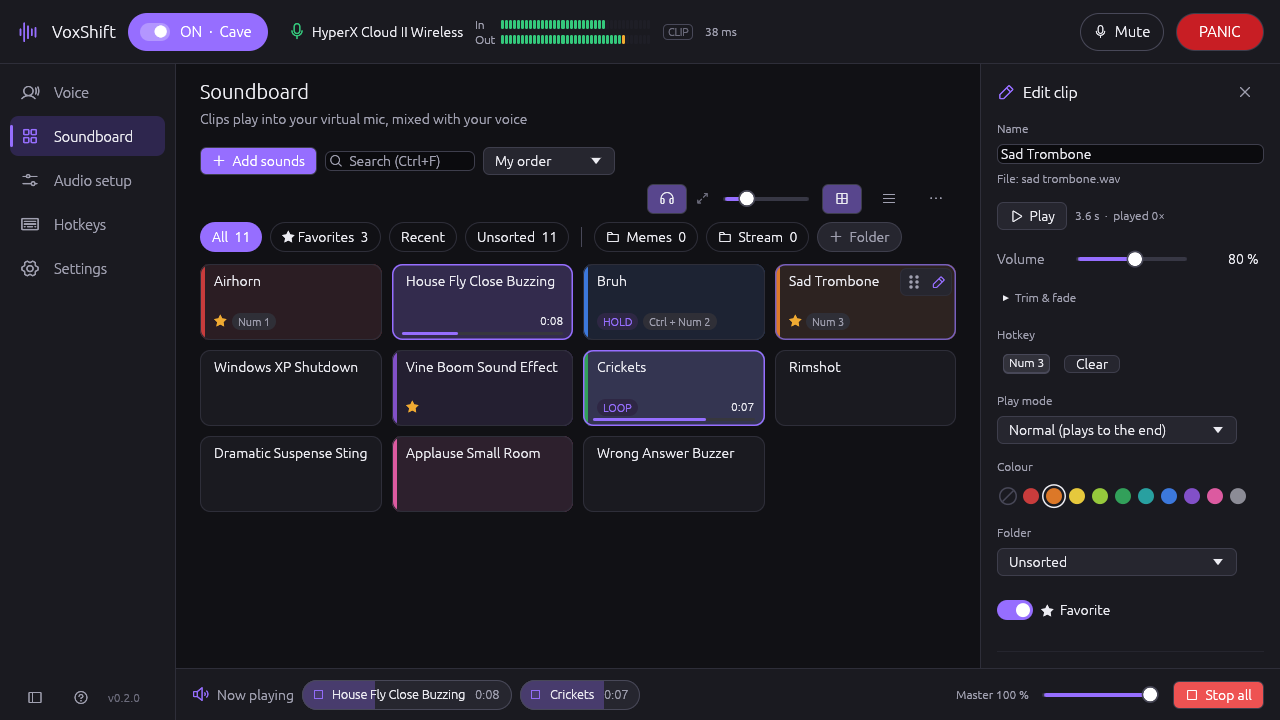
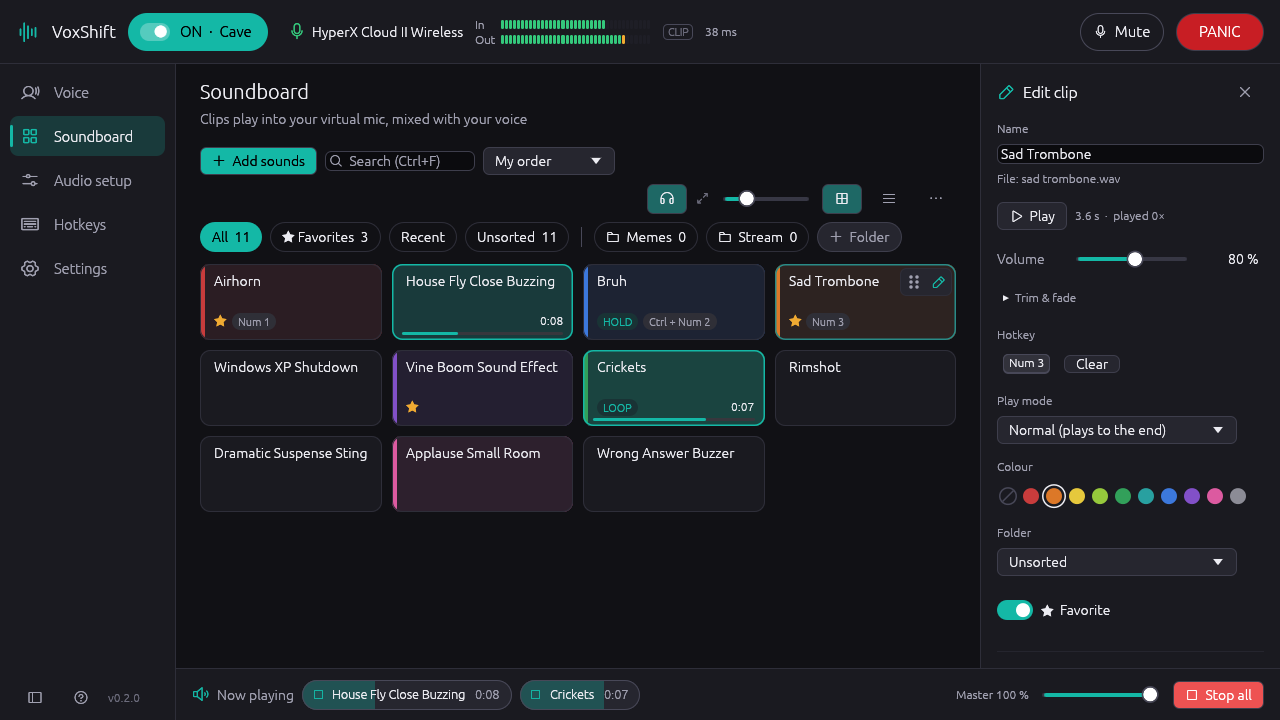
README: accent colour setting, and the screenshots in teal

diff --git a/README.md b/README.md
@@ -68,7 +68,8 @@ nothing is uploaded anywhere.
 **Convenient**
 - Global hotkeys that work while a game has focus (the game still gets the key), all on one
   page.
-- A setup wizard on the first start, dark and light themes, and a UI scale from 90 to 150 %.
+- A setup wizard on the first start, dark and light themes, an accent colour of your choice,
+  and a UI scale from 90 to 150 %.
 - Runs in the system tray, can start with Windows, and remembers all your settings.
 - Share your presets and melodies with friends in one file.
 
@@ -164,7 +165,7 @@ Then pick a preset at the top of the **Voice** page and try it.
 | **Soundboard** | your clips, folders, search, the edit panel and "Now playing" |
 | **Audio setup** | the signal path, virtual mic, microphones, monitor and latency |
 | **Hotkeys** | every global hotkey in one list |
-| **Settings** | theme and UI scale, window and startup, switch feedback, the settings file, About |
+| **Settings** | theme, UI scale and accent colour, window and startup, switch feedback, the settings file, About |
 
 The button at the bottom left folds the rail to icons only; **?** lists the keyboard
 shortcuts. Messages (mic switched, preset saved, clip deleted, import results, errors) appear
@@ -470,7 +471,7 @@ it right away.
 
   | Icon | Meaning |
   |---|---|
-  | violet | all good |
+  | your accent colour (teal unless you [picked another](#settings)) | all good |
   | grey | voice changer off |
   | grey with a red slash | mic muted |
   | orange | no microphone available |
@@ -567,8 +568,8 @@ them in the app.
 
 The **Settings** page has:
 
-- **Appearance:** **Theme** (*Dark*, *Light* or *Same as Windows*) and **UI scale** (90 to
-  150 %). Ctrl + plus and Ctrl + minus also change the scale.
+- **Appearance:** **Theme** (*Dark*, *Light* or *Same as Windows*), **UI scale** (90 to
+  150 %; Ctrl + plus and Ctrl + minus also change it) and **Accent colour** (see below).
 - **Window & startup:** what closing the window does, **Start with Windows**, **Start minimized
   to the tray** and the voice changer's state at start. The window's size and place are
   remembered.
@@ -577,6 +578,25 @@ The **Settings** page has:
 - **Settings file:** where your settings are saved, **Open folder**, and **Reset settings…**.
 - **About:** the version, links to the Releases page and the source code, and **Setup
   wizard…**.
+
+**Accent colour.** The accent marks what is active: the ON pill, the selected page, switches,
+sliders, the selected preset, segmented buttons, the piano roll and more. It is **teal** by
+default. Under **Settings → Appearance → Accent colour** you can pick:
+
+- one of the quick picks: **Teal**, **Blue**, **Indigo**, **Graphite** or **Violet** (the
+  colour of older versions);
+- any colour of your own, with the colour picker or by typing or pasting a code such as
+  `#3B82F6` into the field next to it;
+- **Reset** to go back to teal.
+
+Everything follows at once, in the dark and the light theme. VoxShift works out the rest
+for you: lighter and darker shades for hover and highlights, and black or white text on the
+accent, whichever reads better (so a light colour such as yellow gets black text). If a
+colour would be hard to see on the theme's background (a very light colour on the light
+theme, or a very dark one on the dark theme), it is shown a little darker or lighter there.
+Red, orange and green mean danger, warnings and "all good"; an accent close to one of those
+gets a small warning, but you can still use it. The tray icon and the window icon use the
+accent as their "all good" colour.
 
 | What | Where |
 |---|---|
